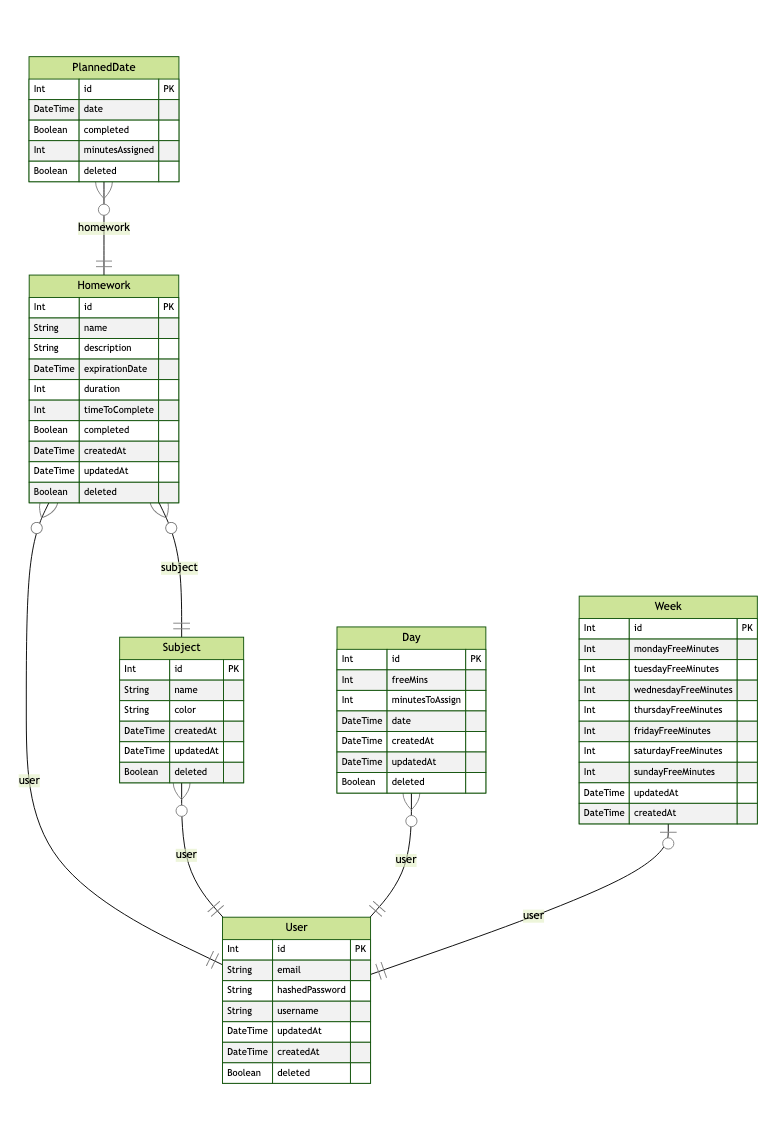
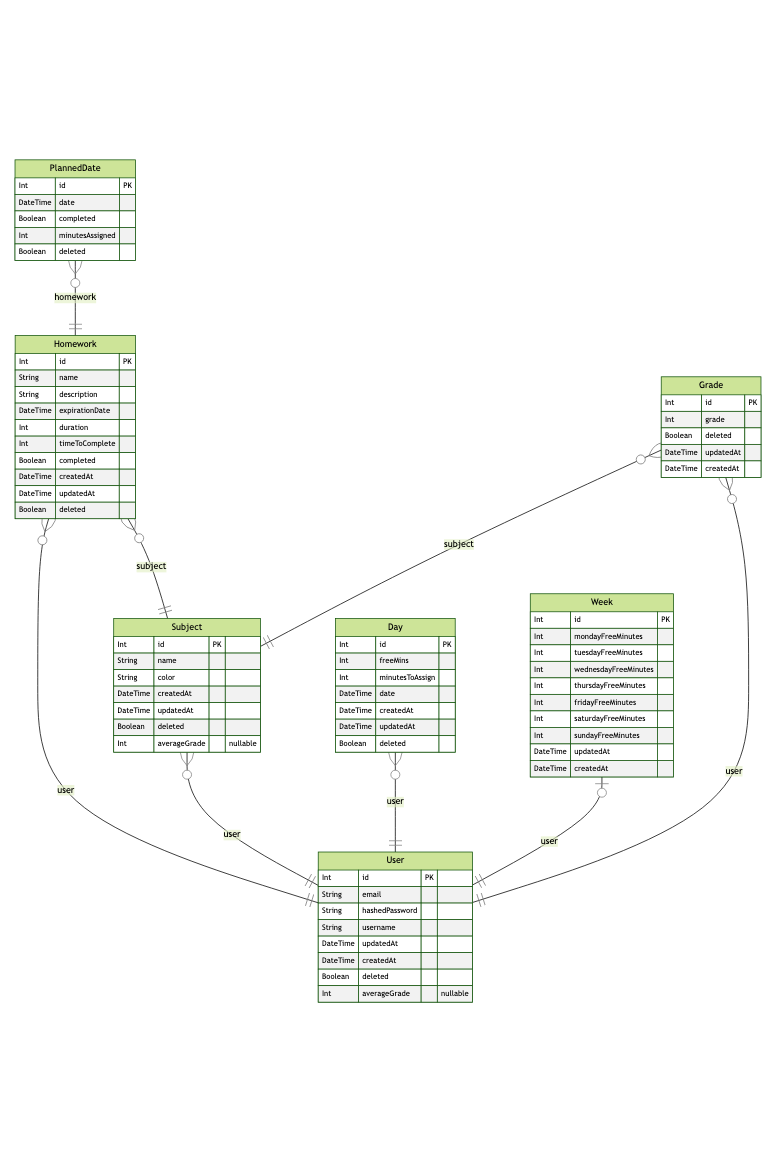
backend grade create and all

diff --git a/backend/src/controllers/grade.ts b/backend/src/controllers/grade.ts
@@ -1,0 +1,56 @@
+import { prisma } from "../app";
+import { Request, Response } from "express";
+import { throwResponseError } from "../utilities";
+
+export const createGrade = async (req: Request, res: Response) => {
+  const { grade, subjectId } = req.body;
+  const { userId } = req;
+  try {
+    const gradeResult = await prisma.grade.create({
+      data: {
+        grade: +grade,
+        userId: +userId!,
+        subjectId: +subjectId,
+      },
+    });
+    res.json(gradeResult);
+  } catch (err) {
+    console.log(err);
+    throwResponseError("an error has occurred creating the grade", 400, res);
+  }
+};
+
+export const getAllGrades = async (req: Request, res: Response) => {
+  const { userId } = req;
+  try {
+    const result = await prisma.user.findMany({
+      where: {
+        id: +userId!,
+      },
+      select: {
+        averageGrade: true,
+        id: true,
+        subjects: {
+          select: {
+            id: true,
+            averageGrade: true,
+            color: true,
+            name: true,
+            grades: {
+              select: {
+                grade: true,
+              },
+              where: {
+                userId: +userId!,
+                deleted: false,
+              },
+            },
+          },
+        },
+      },
+    });
+    res.json(result);
+  } catch (err) {
+    throwResponseError("an error has occurred finding the grades", 400, res);
+  }
+};

diff --git a/backend/src/routes/grade.ts b/backend/src/routes/grade.ts
@@ -1,0 +1,21 @@
+import { Router } from "express";
+import { body } from "express-validator";
+import { createGrade, getAllGrades } from "../controllers/grade";
+import { isAuthenticated, validateExpressValidation } from "../middlewares";
+
+const router = Router();
+
+router.post(
+  "/create",
+  isAuthenticated,
+  [
+    body("grade", "please enter a valid grade").isNumeric(),
+    body("subjectId", "please enter a valid subject id").isNumeric(),
+  ],
+  validateExpressValidation,
+  createGrade
+);
+
+router.get("/all", isAuthenticated, getAllGrades);
+
+export default router;

diff --git a/backend/src/app.ts b/backend/src/app.ts
@@ -9,6 +9,7 @@ import dayRoutes from "./routes/day";
 import calendarRoutes from "./routes/calendar";
 import subjectRoutes from "./routes/subject";
 import plannedDateRoutes from "./routes/plannedDate";
+import gradeRoutes from "./routes/grade";
 
 import { ErrorResponse } from "./models";
 
@@ -34,6 +35,7 @@ app.use("/week", weekRoutes);
 app.use("/calendar", calendarRoutes);
 app.use("/subject", subjectRoutes);
 app.use("/plannedDate", plannedDateRoutes);
+app.use("/grade", gradeRoutes);
 
 app.use((_req: Request, res: Response) => {
   const response: ErrorResponse = {
